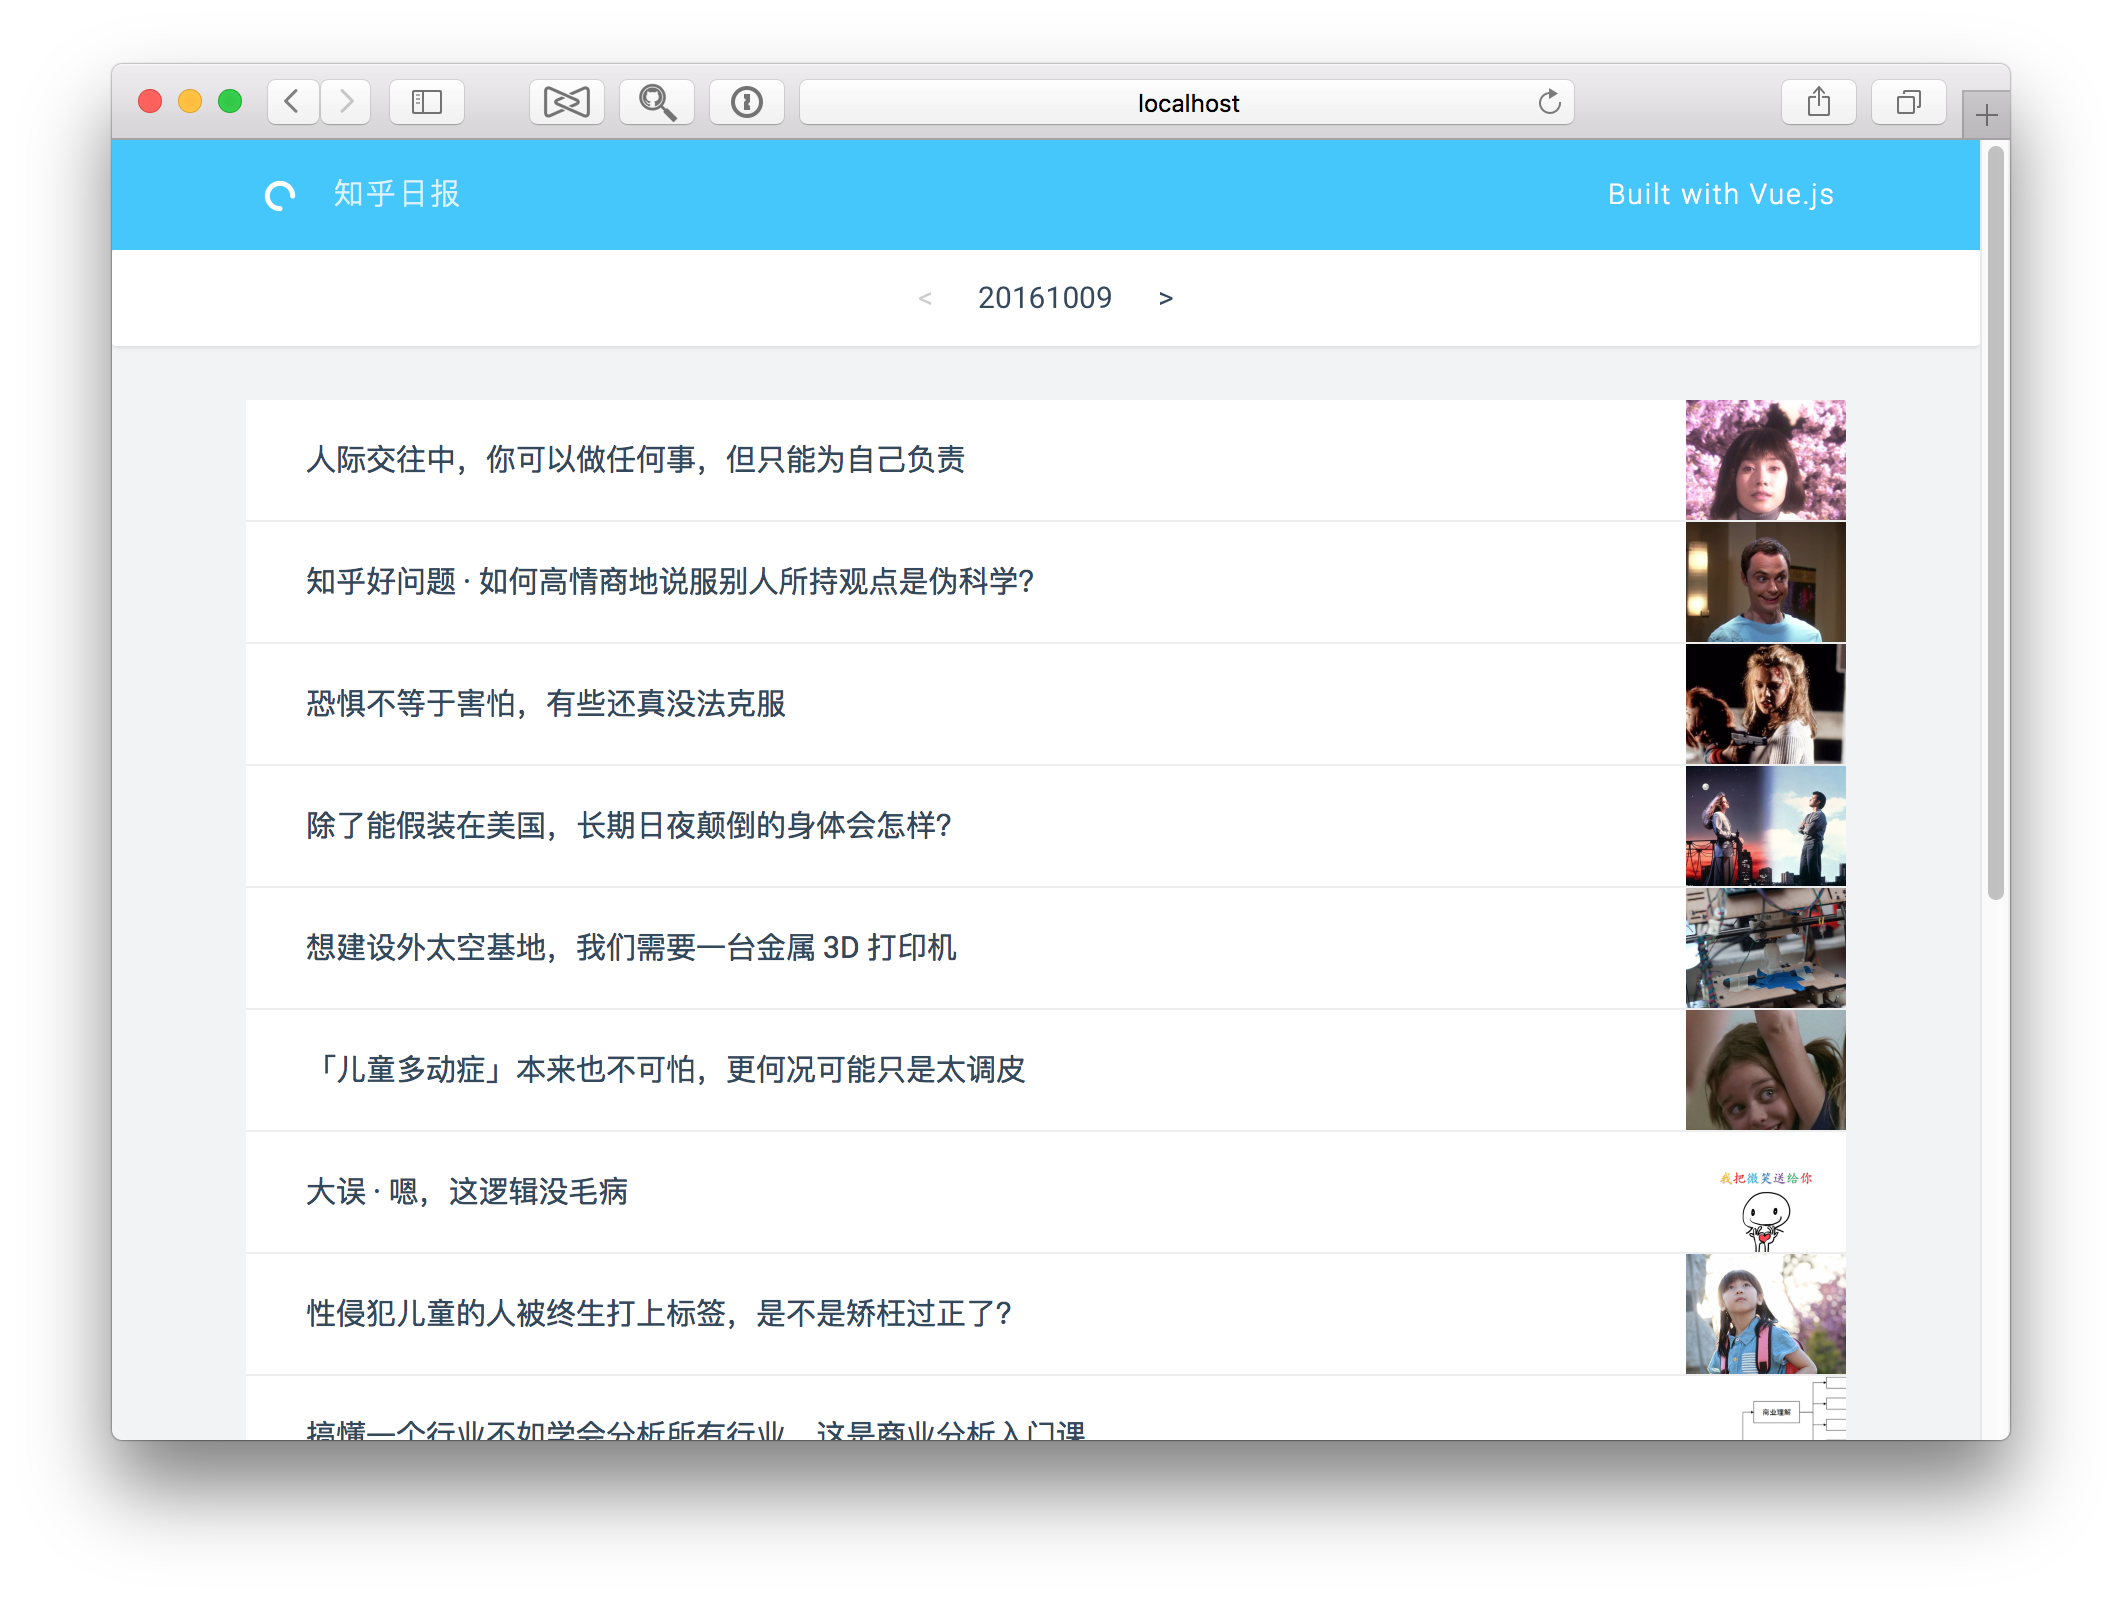
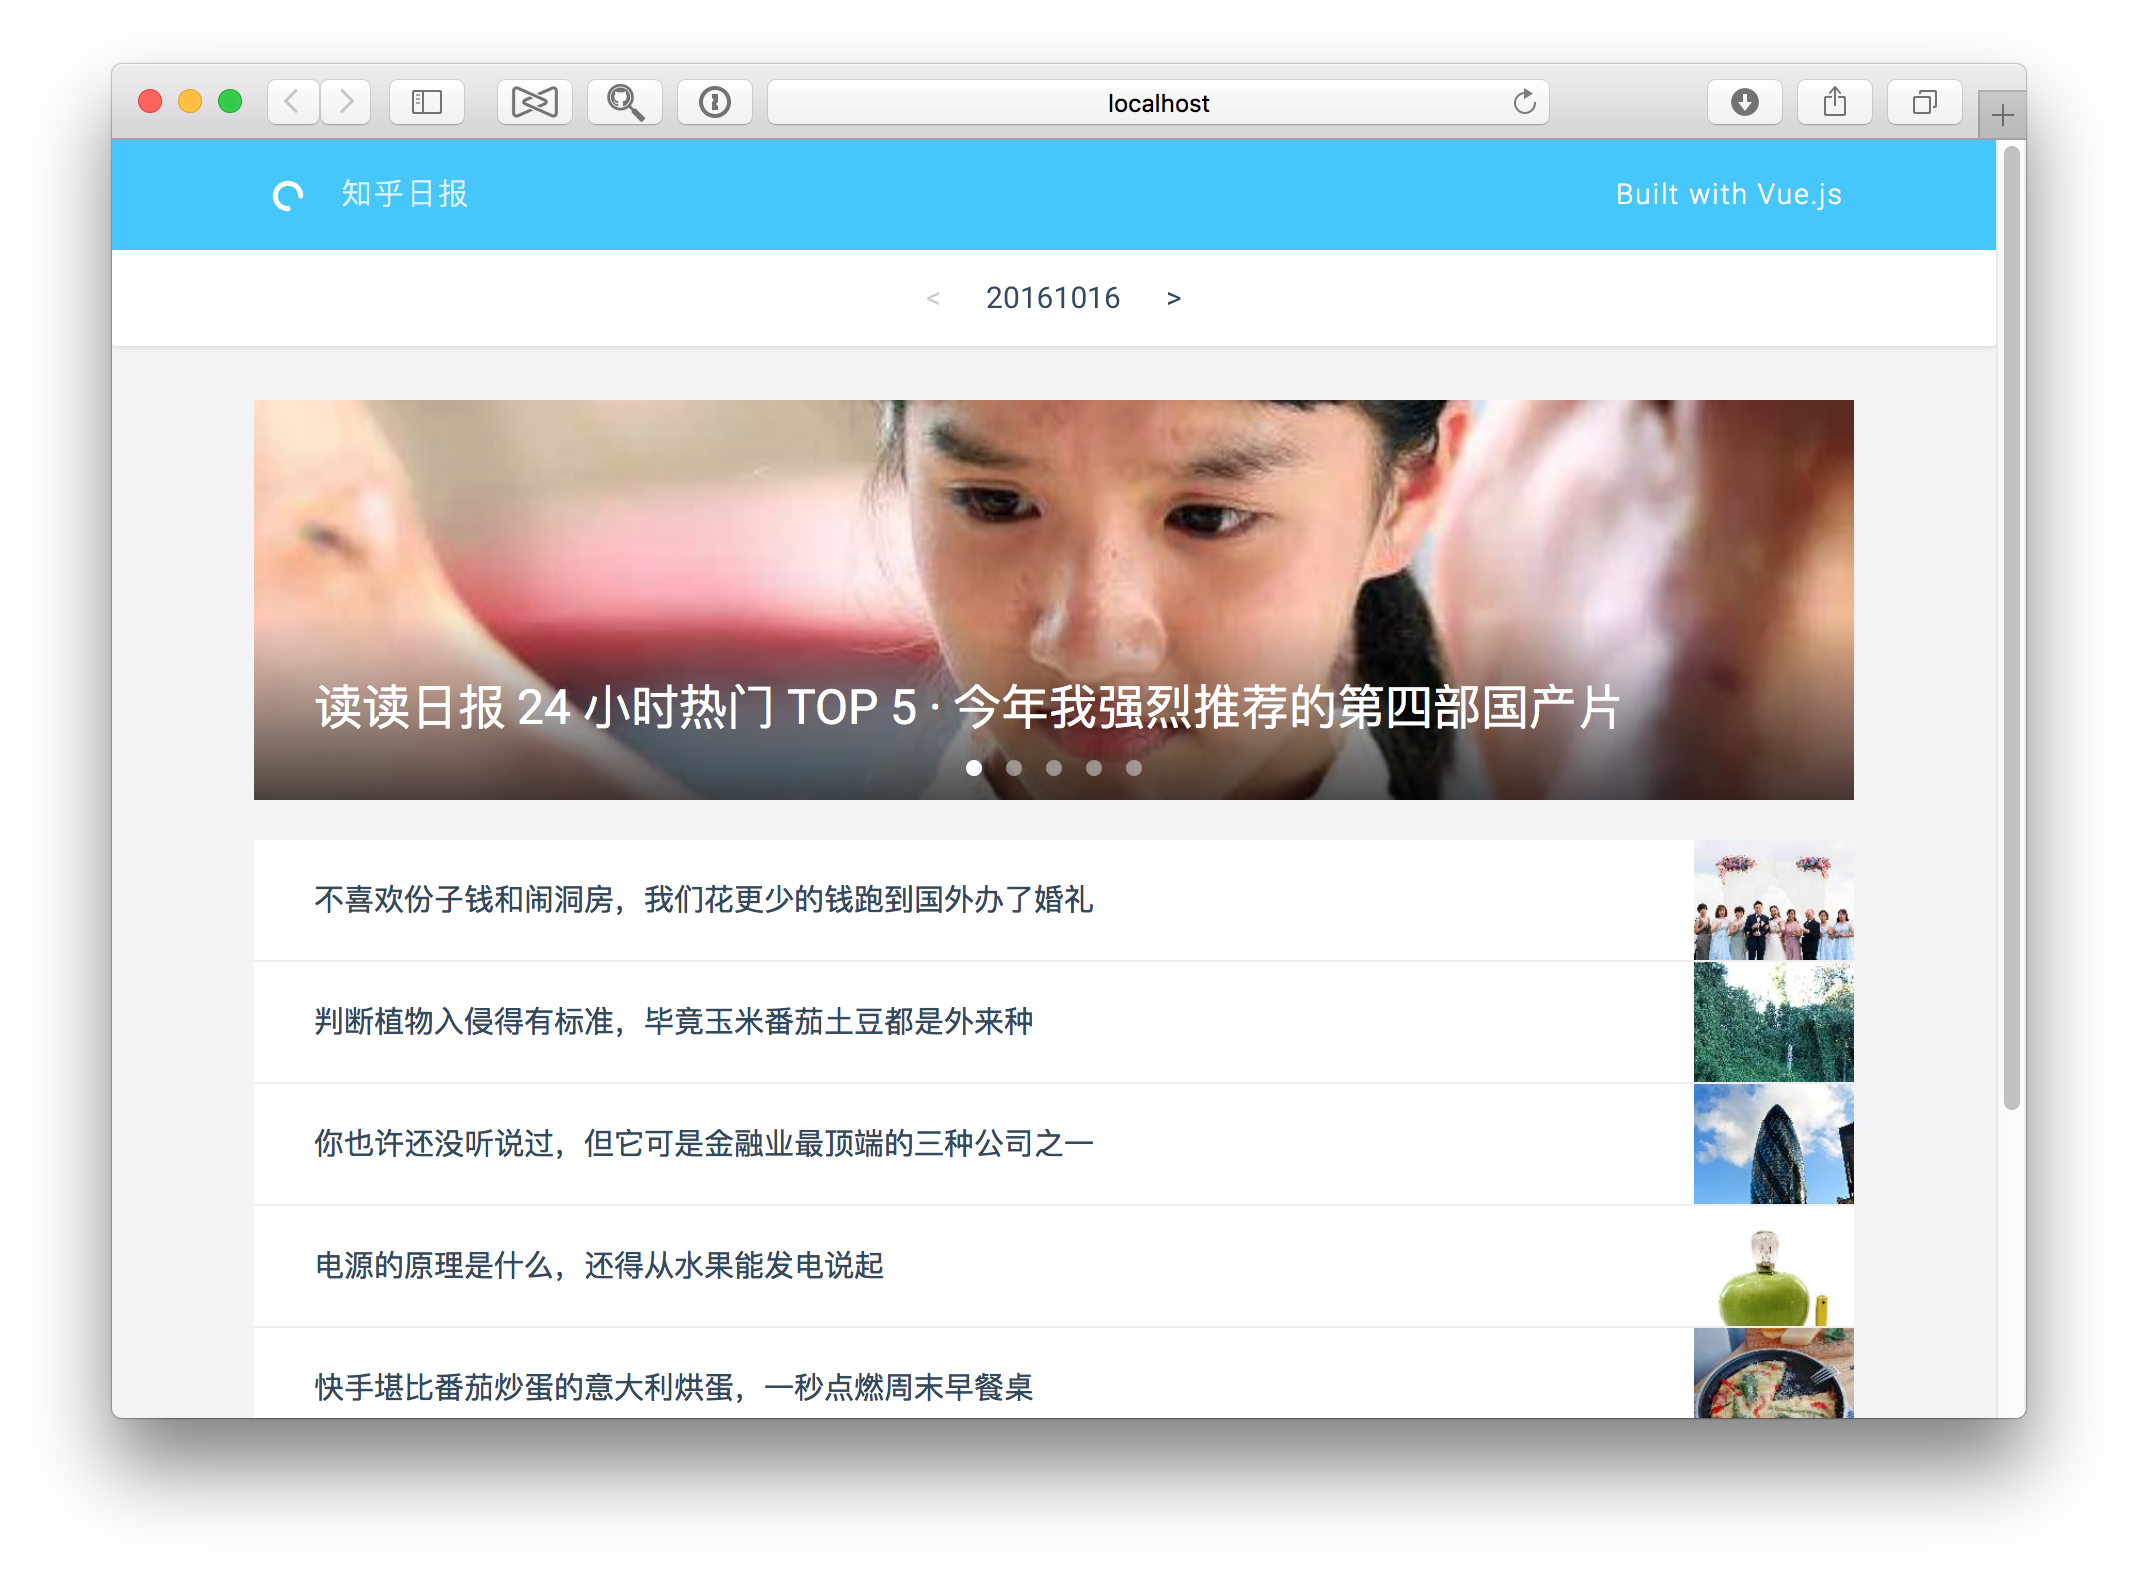
update readme

diff --git a/README.md b/README.md
@@ -11,9 +11,10 @@
 ![](./preview.png)
 
 ## Features
-- 查看最新内容
-- 查看文章详情
-- 查看文章评论
+- 今日热门
+- 每日日报
+- 文章详情
+- 文章评论
 
 ## Build Setup
 
@@ -33,6 +34,7 @@ npm run build
 
 ## TODO
 
+ - [x] 今日热门
  - [ ] 主题日报
  - [ ] 完善界面
  - [ ] 服务器端渲染
